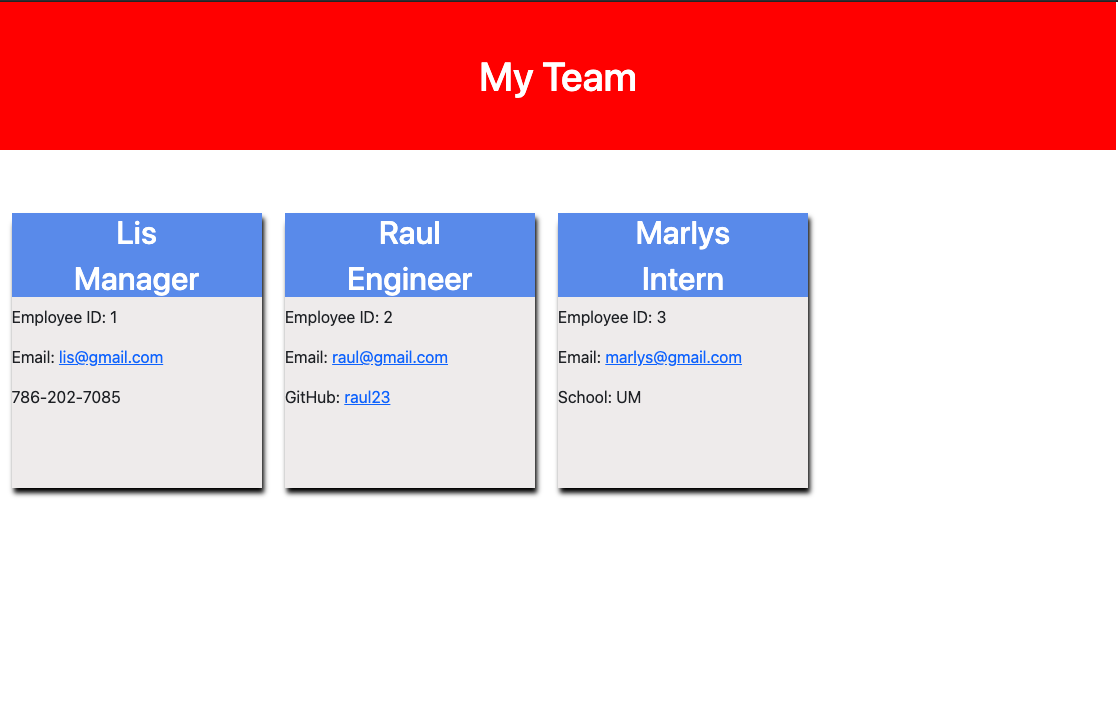
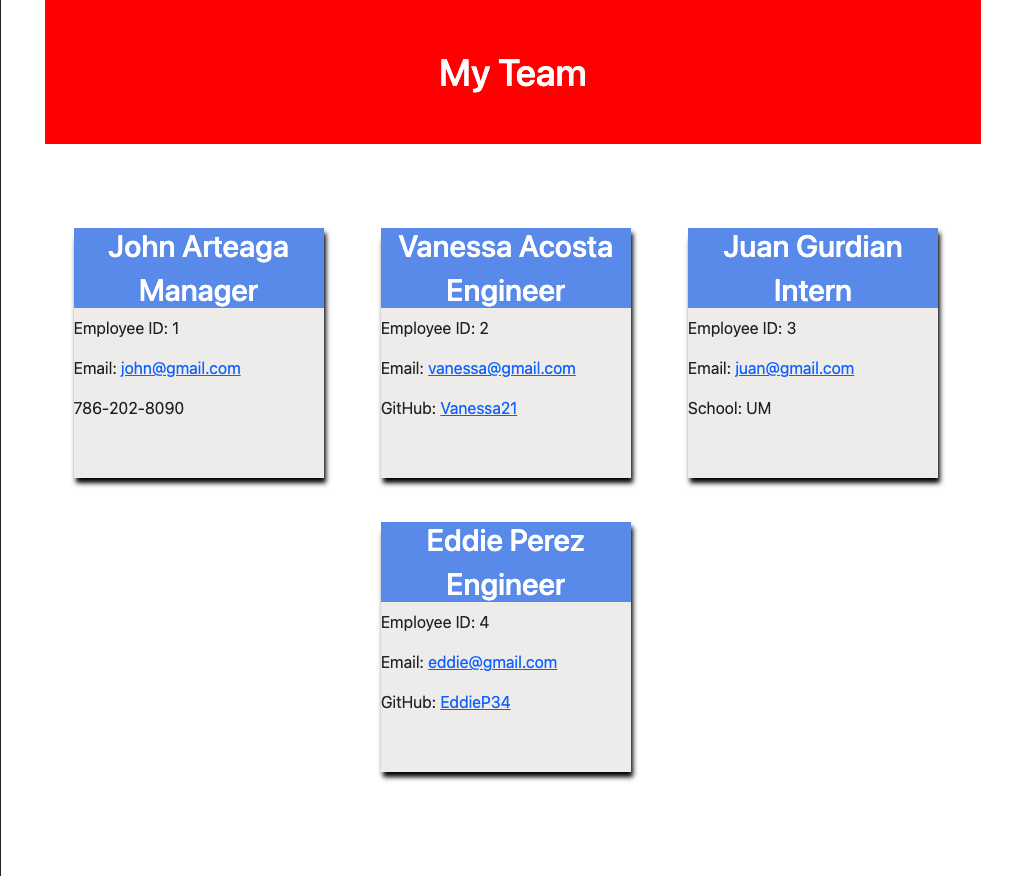
updated css and the Readme file

Changed region(s): [[0.0, 0.0, 0.999, 0.8962], [0.3746, 0.7468, 0.562, 0.8364]]

diff --git a/myteam-html/[object Object].html b/myteam-html/[object Object].html
@@ -18,42 +18,56 @@
         
         <div class="member-card">
             <div class="card-top">
-                <h2>Lis</h2>
+                <h2>John Arteaga</h2>
                 <h2>Manager</h2>
             </div>
             <div class="card-bottom">
                 <p>Employee ID: 1</p>
-                <p>Email: <a href="mailto:lis@gmail.com">lis@gmail.com</a></p>
+                <p>Email: <a href="mailto:john@gmail.com">john@gmail.com</a></p>
         
-            <p>786-202-7085</p>
+            <p>786-202-8090</p>
             
         </div>
         </div>
         
         <div class="member-card">
             <div class="card-top">
-                <h2>Raul</h2>
+                <h2>Vanessa Acosta</h2>
                 <h2>Engineer</h2>
             </div>
             <div class="card-bottom">
                 <p>Employee ID: 2</p>
-                <p>Email: <a href="mailto:raul@gmail.com">raul@gmail.com</a></p>
+                <p>Email: <a href="mailto:vanessa@gmail.com">vanessa@gmail.com</a></p>
         
-            <p>GitHub: <a href="https://github.com/raul23">raul23</a></p>
+            <p>GitHub: <a href="https://github.com/Vanessa21">Vanessa21</a></p>
             
         </div>
         </div>
         
         <div class="member-card">
             <div class="card-top">
-                <h2>Marlys</h2>
+                <h2>Juan Gurdian</h2>
                 <h2>Intern</h2>
             </div>
             <div class="card-bottom">
                 <p>Employee ID: 3</p>
-                <p>Email: <a href="mailto:marlys@gmail.com">marlys@gmail.com</a></p>
+                <p>Email: <a href="mailto:juan@gmail.com">juan@gmail.com</a></p>
         
             <p>School: UM</p>
+            
+        </div>
+        </div>
+        
+        <div class="member-card">
+            <div class="card-top">
+                <h2>Eddie Perez</h2>
+                <h2>Engineer</h2>
+            </div>
+            <div class="card-bottom">
+                <p>Employee ID: 4</p>
+                <p>Email: <a href="mailto:eddie@gmail.com">eddie@gmail.com</a></p>
+        
+            <p>GitHub: <a href="https://github.com/EddieP34">EddieP34</a></p>
             
         </div>
         </div>

diff --git a/myteam-html/style.css b/myteam-html/style.css
@@ -7,7 +7,7 @@ h1 {
 
 .member-card {
     width: 250px;
-    height: 34vh;
+    height: 250px;
     margin-bottom: 5vh;
     background-color: rgb(240, 238, 238);
     box-shadow: 2px 5px 5px black;
@@ -19,6 +19,8 @@ h2{
     color: white;
 }
 
+
+
 .card-top {
     background-color:cornflowerblue ;
 }
@@ -29,5 +31,6 @@ h2{
     display: flex;
     flex-wrap: wrap;
     justify-content: space-around;
-    width: 60vw;
+    width: 90%;
+    
 }
